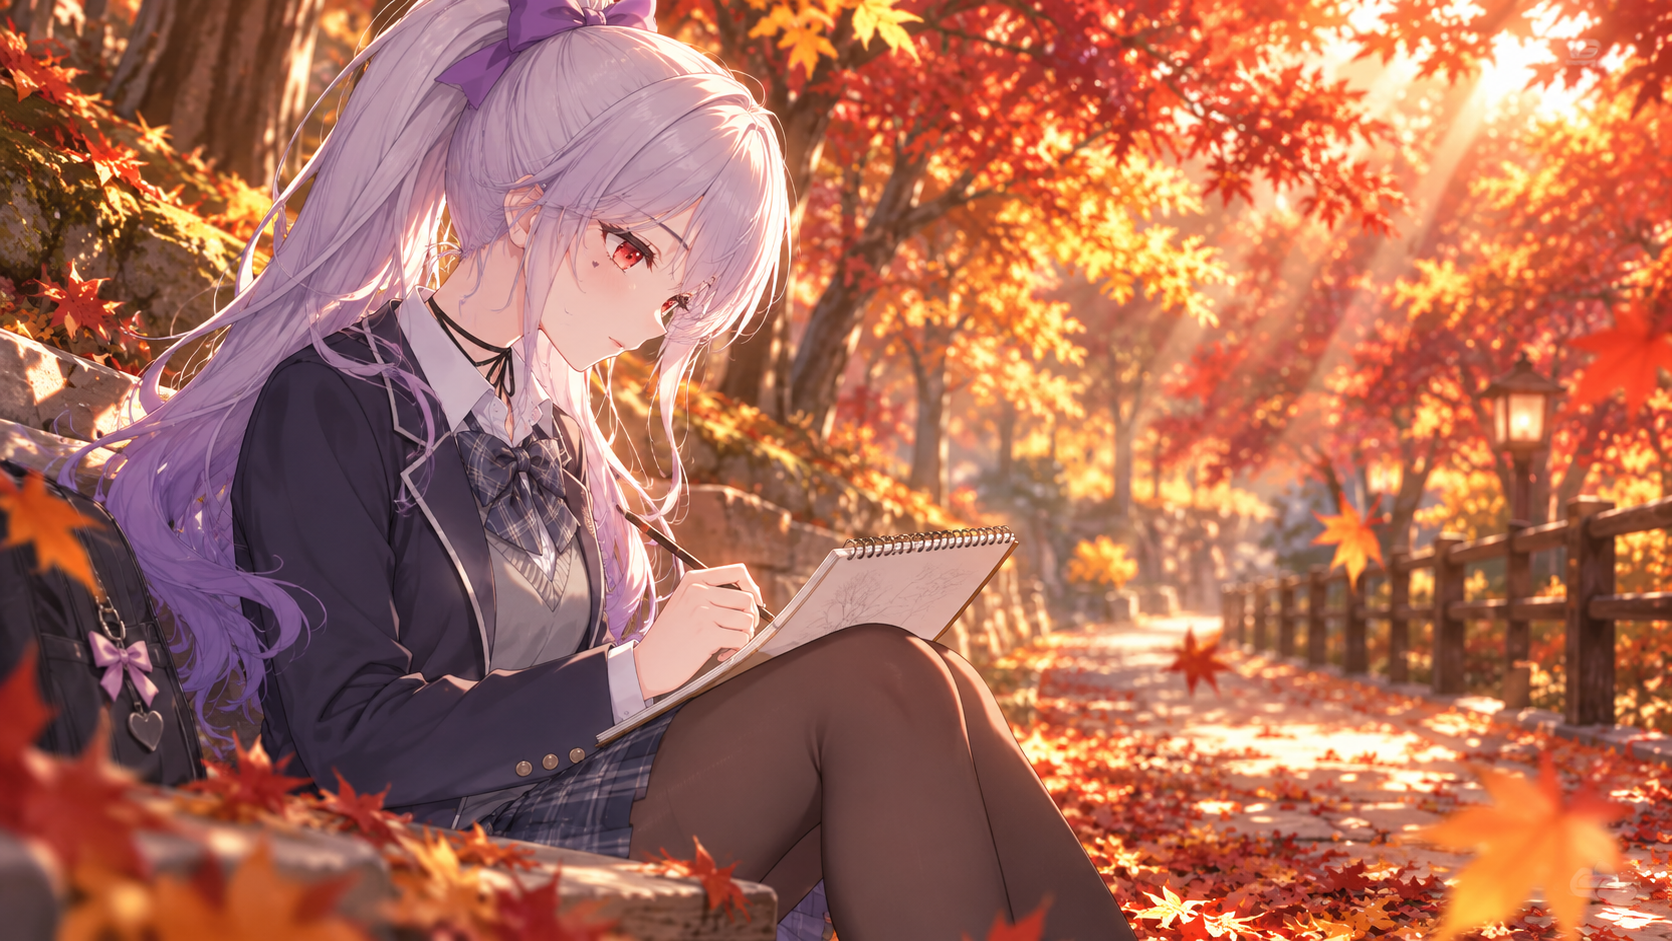
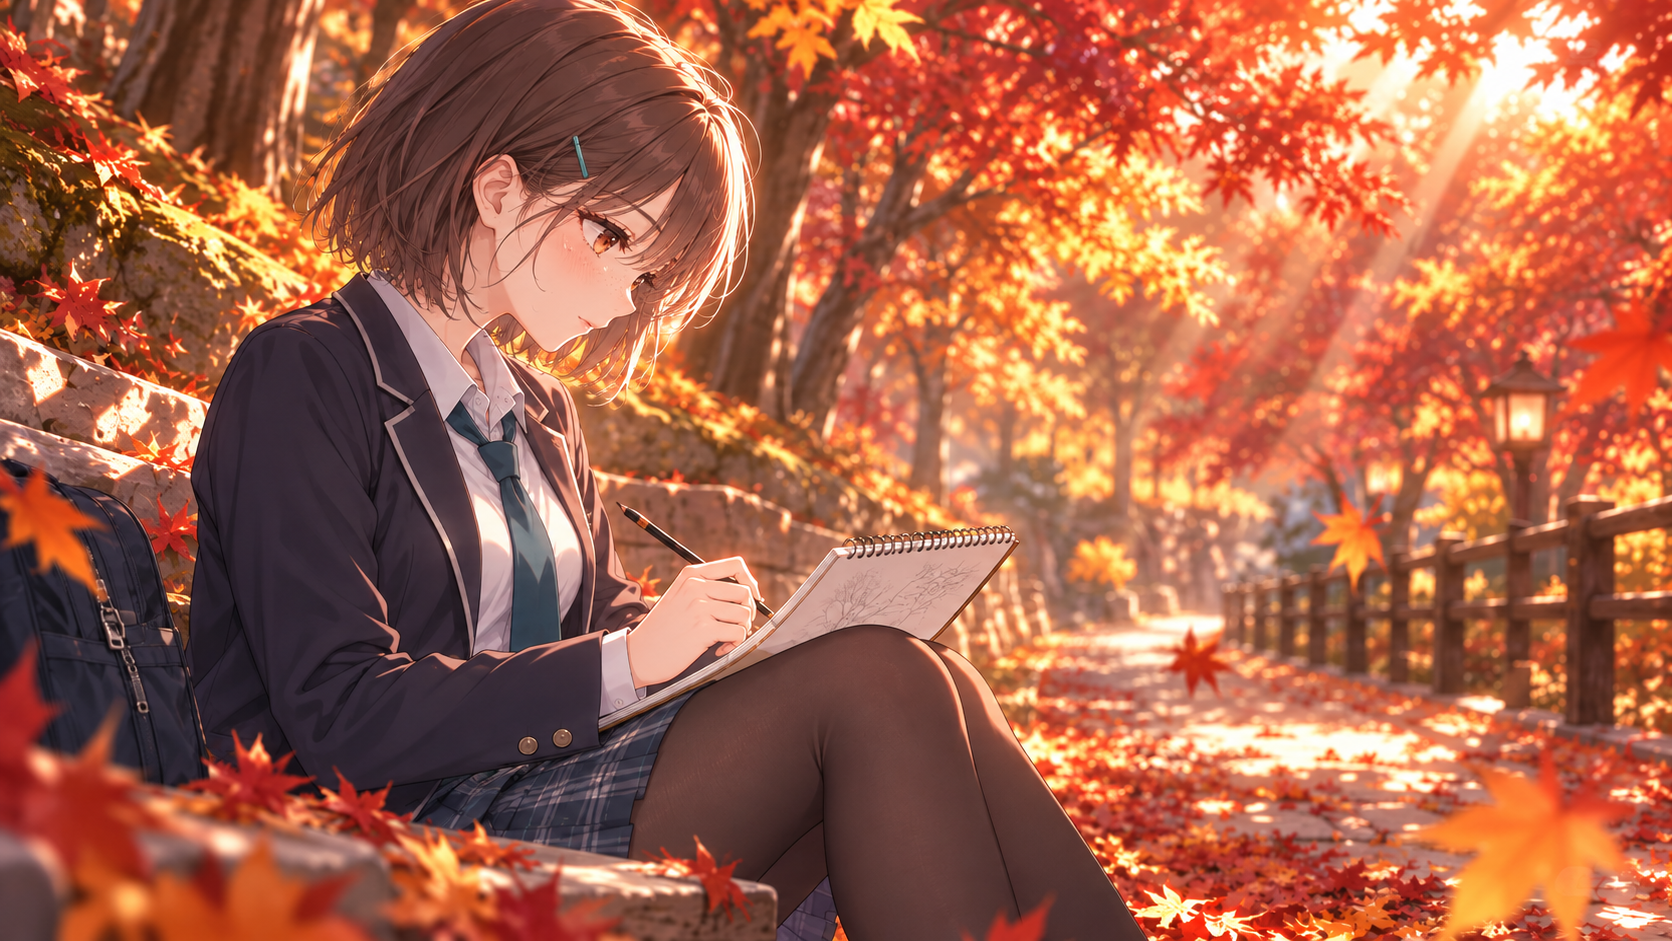
CH06 CG 원본 구도와 자세 반영

diff --git a/docs/illustration-replacement-prompts.md b/docs/illustration-replacement-prompts.md
@@ -236,7 +236,7 @@ CG는 공통 CG 블록과 파일별 장면 프롬프트를 이어 붙인다. 무
 | [cg-03.png](../assets/cg/cg-03.png) · CH03 미술실 방과후 | 해 질 무렵 미술실, 온이유가 몸과 어깨를 캔버스 쪽으로 돌린 측면 자세로 서서 붓끝을 풍경화에 대고 작업한다. 시선은 그림에 두고, 다른 손에는 팔레트를 든다. 창밖 노을이 캔버스와 책상에 따뜻하게 비친다. |
 | [cg-04.png](../assets/cg/cg-04.png) · CH04 장마와 우산 | 비가 내리는 하굣길, 남자주인공과 온이유가 하나의 투명 우산을 함께 쓰며 어깨가 가까이 닿은 채 나란히 걷는다. 두 사람의 몸과 어깨는 같은 보행 방향을 향하고 나란히 평행하게 둔다. 온이유는 몸을 돌리지 않고 고개와 시선만 남자주인공 쪽으로 살짝 올린다. 남자주인공은 뒤쪽 모습으로, 얼굴이 드러나지 않게 표현한다. 젖은 보도와 가로등에 빗물이 반사된다. |
 | [cg-05.png](../assets/cg/cg-05.png) · CH05 체육대회 | 원본의 구도와 자세를 유지한다. 화면 왼쪽 그늘진 스탠드에 온이유가 무릎을 세우고 웅크리듯 앉아, 무릎 위에 비스듬히 기댄 스케치북 윗부분에 한 손을 걸친다. 상체와 고개를 살짝 숙이고 시선은 화면 쪽으로 둔다. 오른쪽에는 햇빛이 비치는 운동장과 흐릿한 이어달리기·응원 인파를 넓게 배치한다. 새 캐릭터 기준 외형과 체육복을 적용하고, 스탠드의 글자·로고는 넣지 않는다. |
-| [cg-06.png](../assets/cg/cg-06.png) · CH06 가을 소풍 | 교외 단풍길의 큰 나무 아래, 온이유가 작은 스케치북에 붉고 노란 잎을 그린다. 낮은 가을 햇빛이 잎 사이로 들어오고 주변 풍경은 고요하고 포근하다. |
+| [cg-06.png](../assets/cg/cg-06.png) · CH06 가을 소풍 | 원본의 구도와 자세를 유지한다. 화면 왼쪽 전경 벤치에 온이유가 옆으로 앉아 한쪽 무릎을 세우고, 무릎 위에 비스듬히 놓인 스케치북에 연필로 단풍을 그린다. 상체를 살짝 앞으로 기울이고 시선은 그림에 둔다. 가방은 인물 왼쪽 벤치에 두며, 오른쪽 절반에는 낙엽 덮인 산책길과 난간이 붉고 노란 단풍나무 사이로 멀어지게 배치한다. 새 캐릭터 기준 외형과 교복을 적용하고 글자·로고는 넣지 않는다. |
 | [cg-07.png](../assets/cg/cg-07.png) · CH07 기말고사 | 겨울 도서관의 긴 책상, 온이유가 참고서와 노트를 펼쳐두고 공부하다 잠깐 펜을 멈춘다. 창밖의 차가운 빛과 책상 위 스탠드의 따뜻한 빛을 함께 표현한다. |
 | [cg-08.png](../assets/cg/cg-08.png) · CH08 첫눈 | 학교 앞 겨울 저녁, 코트와 목도리를 착용한 온이유가 처음 내리는 눈을 올려다보며 조용히 웃는다. 가로등과 먼 건물 조명이 눈발에 부드럽게 번진다. |
 | [cg-09.png](../assets/cg/cg-09.png) · 1학년→2학년 전환 | 새 학년 첫날의 벚꽃 핀 교문, 온이유가 학교 안쪽으로 걸어가다 어깨 너머로 한 번 돌아본다. 넓은 학교와 오가는 학생들을 배경에 두고 다음 계절로 이어지는 전환 장면으로 구성한다. |
@@ -272,8 +272,9 @@ CG는 공통 CG 블록과 파일별 장면 프롬프트를 이어 붙인다. 무
 - 동일 인물의 머리 길이·밤색·호박색 눈·청록 실핀 위치가 모든 파일에서 유지되는지 확인한다.
 - 스탠딩은 투명 배경을 사용하고, 같은 의상 세트 안에서 캔버스 비율·인물 크기·카메라 높이를 통일하며 손과 얼굴의 정상적인 형태를 확인한다.
 - 게임이 읽는 6개 표정의 감정이 서로 구분되는지 확인한다.
+- CG 교체 전 원본을 확인하고, 별도 요청이 없으면 인물 위치·카메라 시점·몸 방향·자세·손동작·소품 배치·배경 구조를 원본과 최대한 맞춘다.
 - CG는 16:9 가로 구도이며 챕터의 서사 장면과 맞는지 확인한다.
 - 이미지 모델이 만든 문자·로고·워터마크는 제거하고, 필요한 문구는 별도로 편집한다.
 - 인물 외형 참조에는 승인된 공통 캐릭터 기준 이미지만 사용한다. 사용자가 특정 의상 참고 이미지를 제공한 경우에는 지정된 의상 형태만 참고하고 얼굴·머리·포즈·배경은 복사하지 않는다. 결과가 새 공통 캐릭터 기준과 다르면 해당 파일을 다시 생성한다.
 
-이 문서는 교체 대상의 프롬프트와 파일 대응표다. S·W·G·A·C1·P1·C13·P13·C16·P16·C24·P24·GR 스탠딩 세트와 타이틀 표지, cg-01~cg-05의 생성 및 파일 교체를 완료했으며, 나머지 CG는 한 장씩 진행한다.
+이 문서는 교체 대상의 프롬프트와 파일 대응표다. S·W·G·A·C1·P1·C13·P13·C16·P16·C24·P24·GR 스탠딩 세트와 타이틀 표지, cg-01~cg-06의 생성 및 파일 교체를 완료했으며, 나머지 CG는 한 장씩 진행한다.
